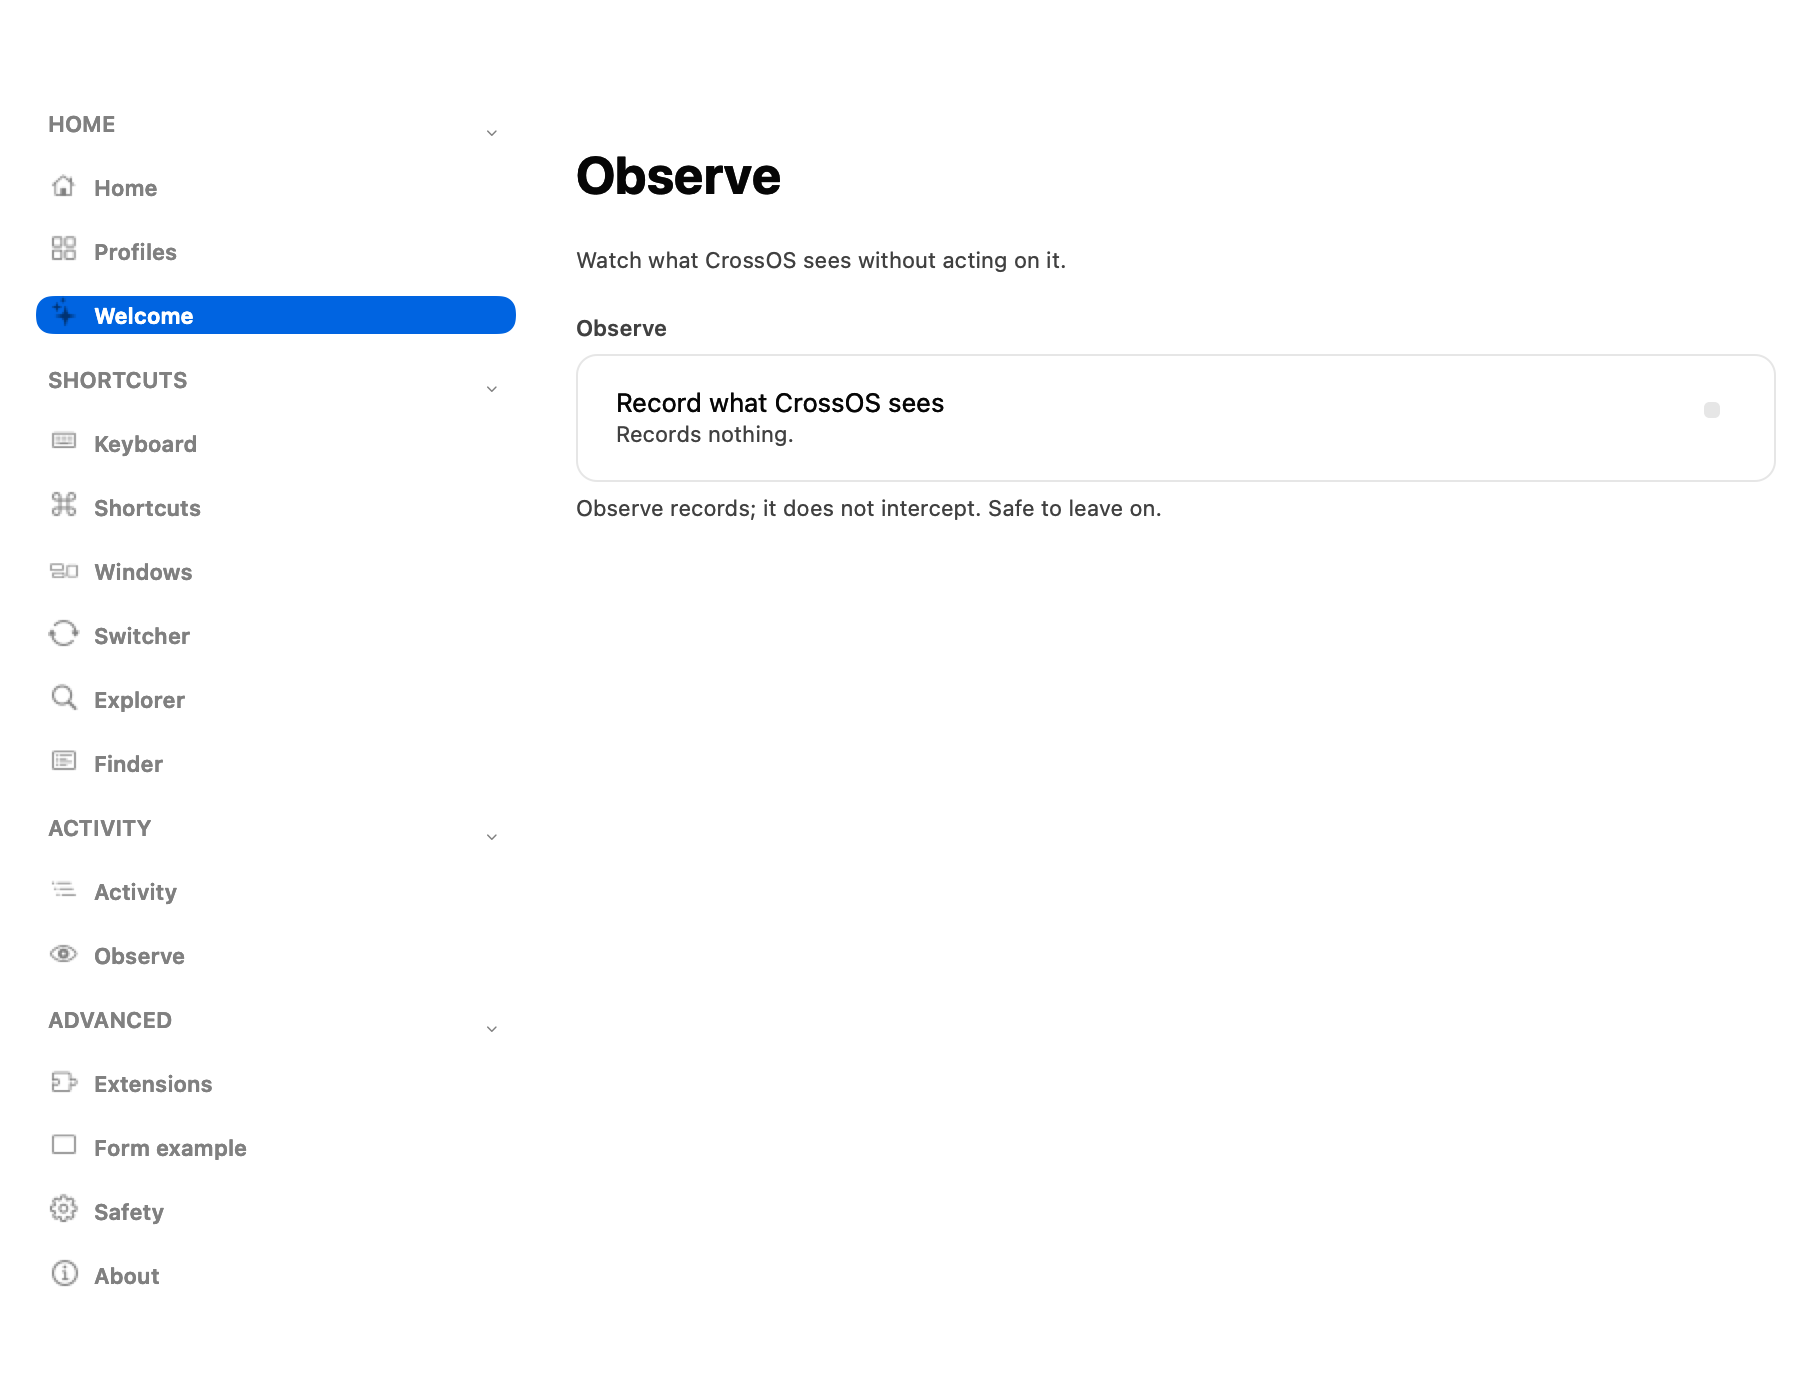
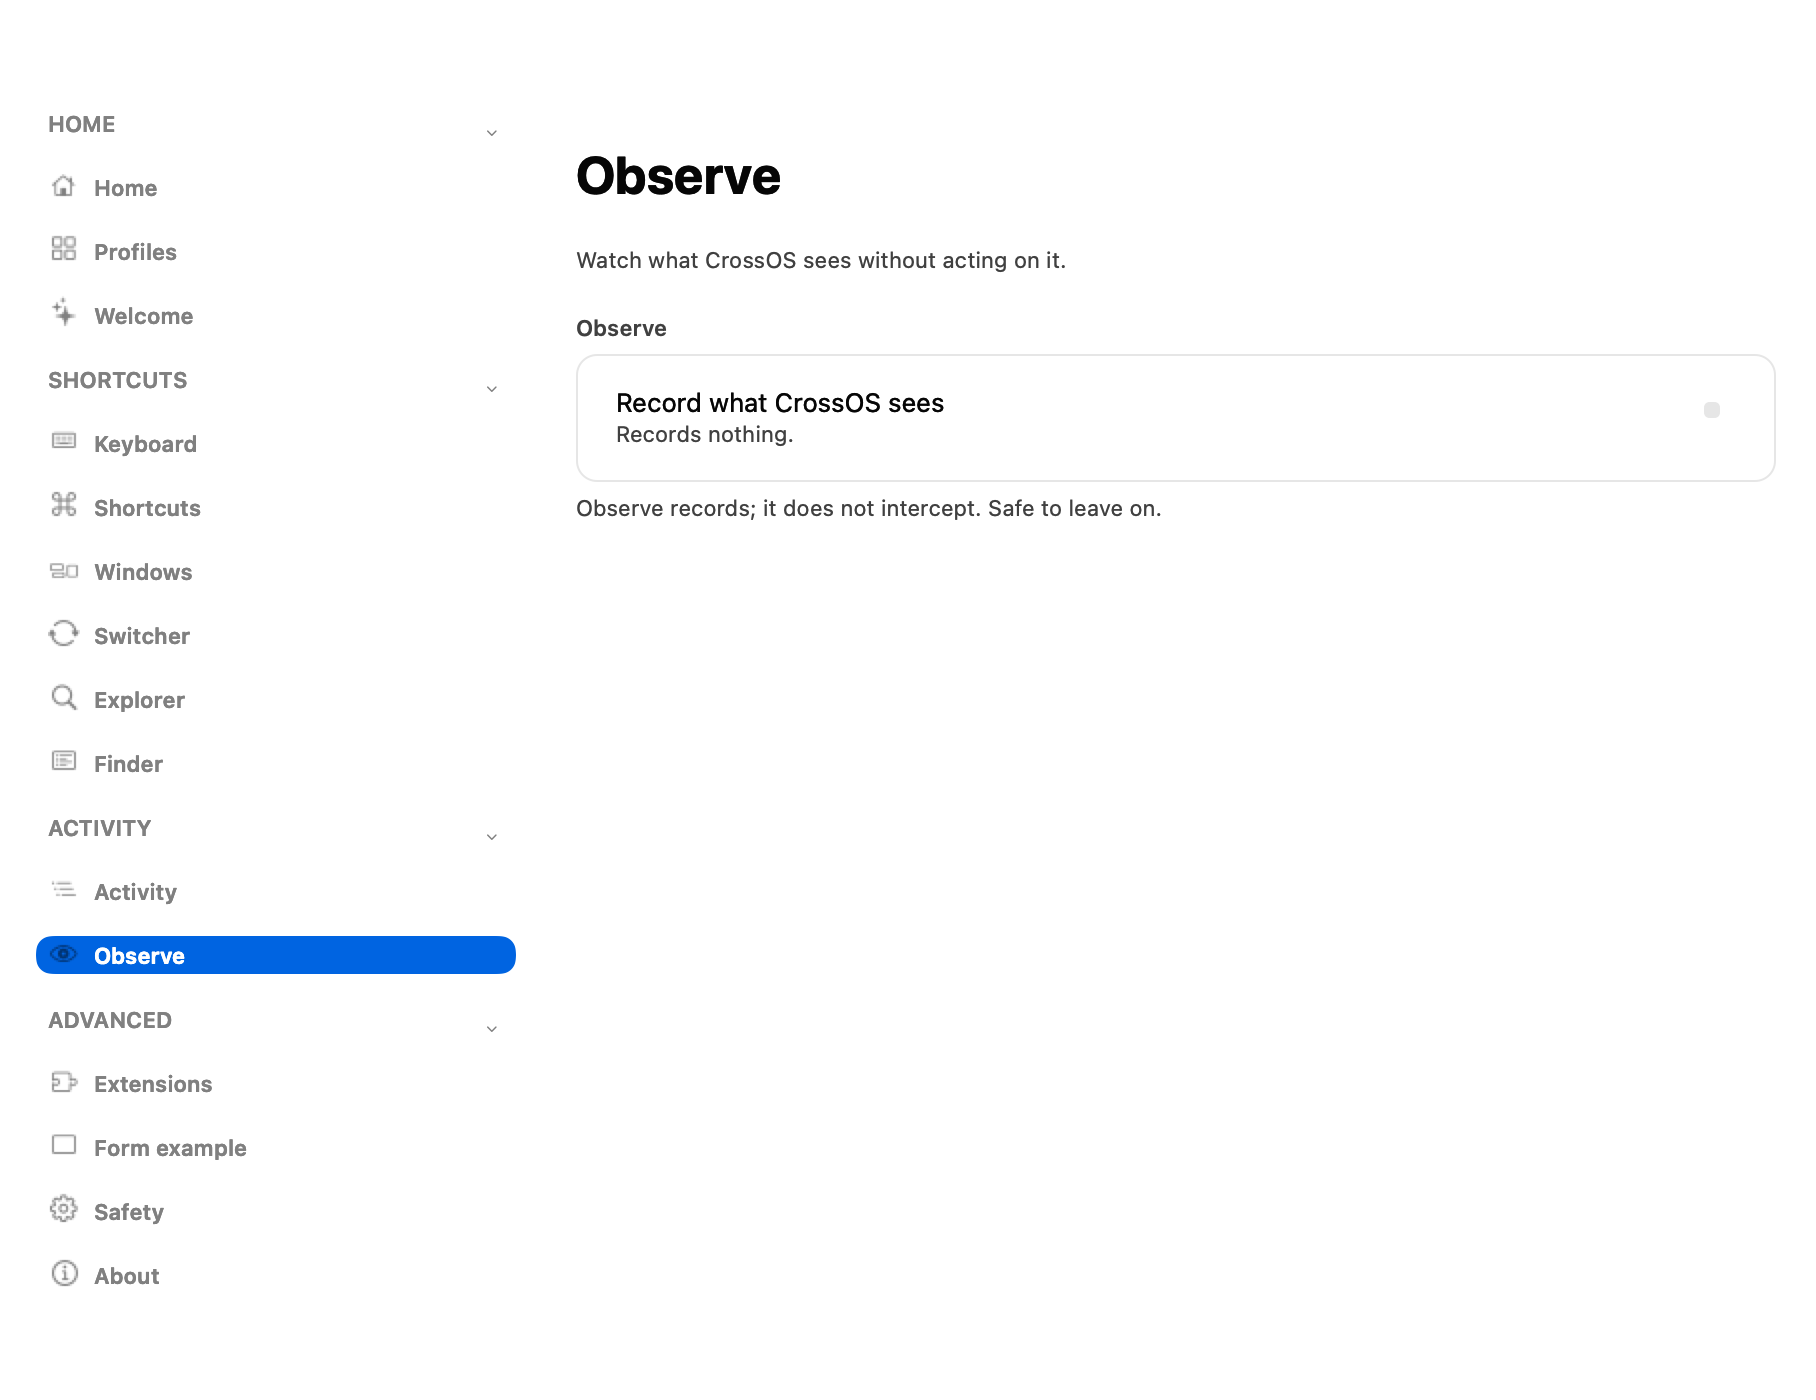
fix: every screenshot showed "Welcome" selected while another page was displayed
`show(_:)` put the page in the content pane and left the rail where it
was. A click moves both — the rail's `onSelect` calls `show(_:)` — so the
app is only ever in the mismatched state when a page is shown directly,
which is exactly what the screenshot harness does.

So all fifteen committed screenshots showed a state the app is never in:
"Welcome" selected while `core.windows`, `core.matrix` and the rest were
displayed. A picture of a state that cannot happen is worse than no
picture, because it is evidence of something.

The rail now follows the page. It selects WITHOUT firing `onSelect`,
because firing it from here is a loop: the window shows a page, the page
asks the rail to select, the rail asks the window to show the page. That
is also what a deep link should do — arriving at a page should put the
rail on it.

Verified: --audit 15 pages 0 fail; CoreTests 111 pass; --click-test passes
3 buttons + 2 write paths + profile apply; `core-windows.png` now shows
"Windows" selected.

Changed region(s): [[0.0, 0.645, 0.3084, 0.7064], [0.0, 0.1843, 0.3084, 0.2457]]

diff --git a/macos/Sources/CrossOSApp/Shell.swift b/macos/Sources/CrossOSApp/Shell.swift
@@ -193,6 +193,15 @@ public final class ShellWindowController: NSWindowController, NSToolbarDelegate 
     public func show(_ page: Page) {
         (split.splitViewItems.last?.viewController as? PageViewController)?.show(page)
         window?.title = page.title
+        // The rail follows the page.
+        //
+        // It does not when the page is shown directly rather than clicked, and
+        // that made every screenshot in `docs/screenshots/` show "Welcome"
+        // selected while a different page was displayed — a picture of a state
+        // the app is never actually in, which is worse than no picture. It is
+        // also what a deep link should do: arriving at a page should put the
+        // rail on it.
+        sidebar.select(page)
         fitWindowToContent()
     }
 
@@ -622,6 +631,25 @@ public final class SidebarViewController: NSViewController {
     private enum Row {
         case group(name: String)
         case page(Page)
+    }
+
+    /// Move the rail's selection onto a page, without telling the window.
+    ///
+    /// `selectRow(for:)` is the other half of a click: it selects AND fires
+    /// `onSelect`, which is what makes the window show the page. Calling that
+    /// from `show(_:)` would be a loop — the window shows a page, the page asks
+    /// the rail to select, the rail asks the window to show the page.
+    ///
+    /// This selects without firing, which is what "the rail follows the page"
+    /// means and nothing more.
+    func select(_ page: Page) {
+        let rows = flatRows
+        guard let index = rows.firstIndex(where: { row in
+            if case .page(let candidate) = row { return candidate.id == page.id }
+            return false
+        }) else { return }
+        outline.selectRowIndexes(IndexSet(integer: index), byExtendingSelection: false)
+        outline.scrollRowToVisible(index)
     }
 
     private func selectRow(for page: Page) {
